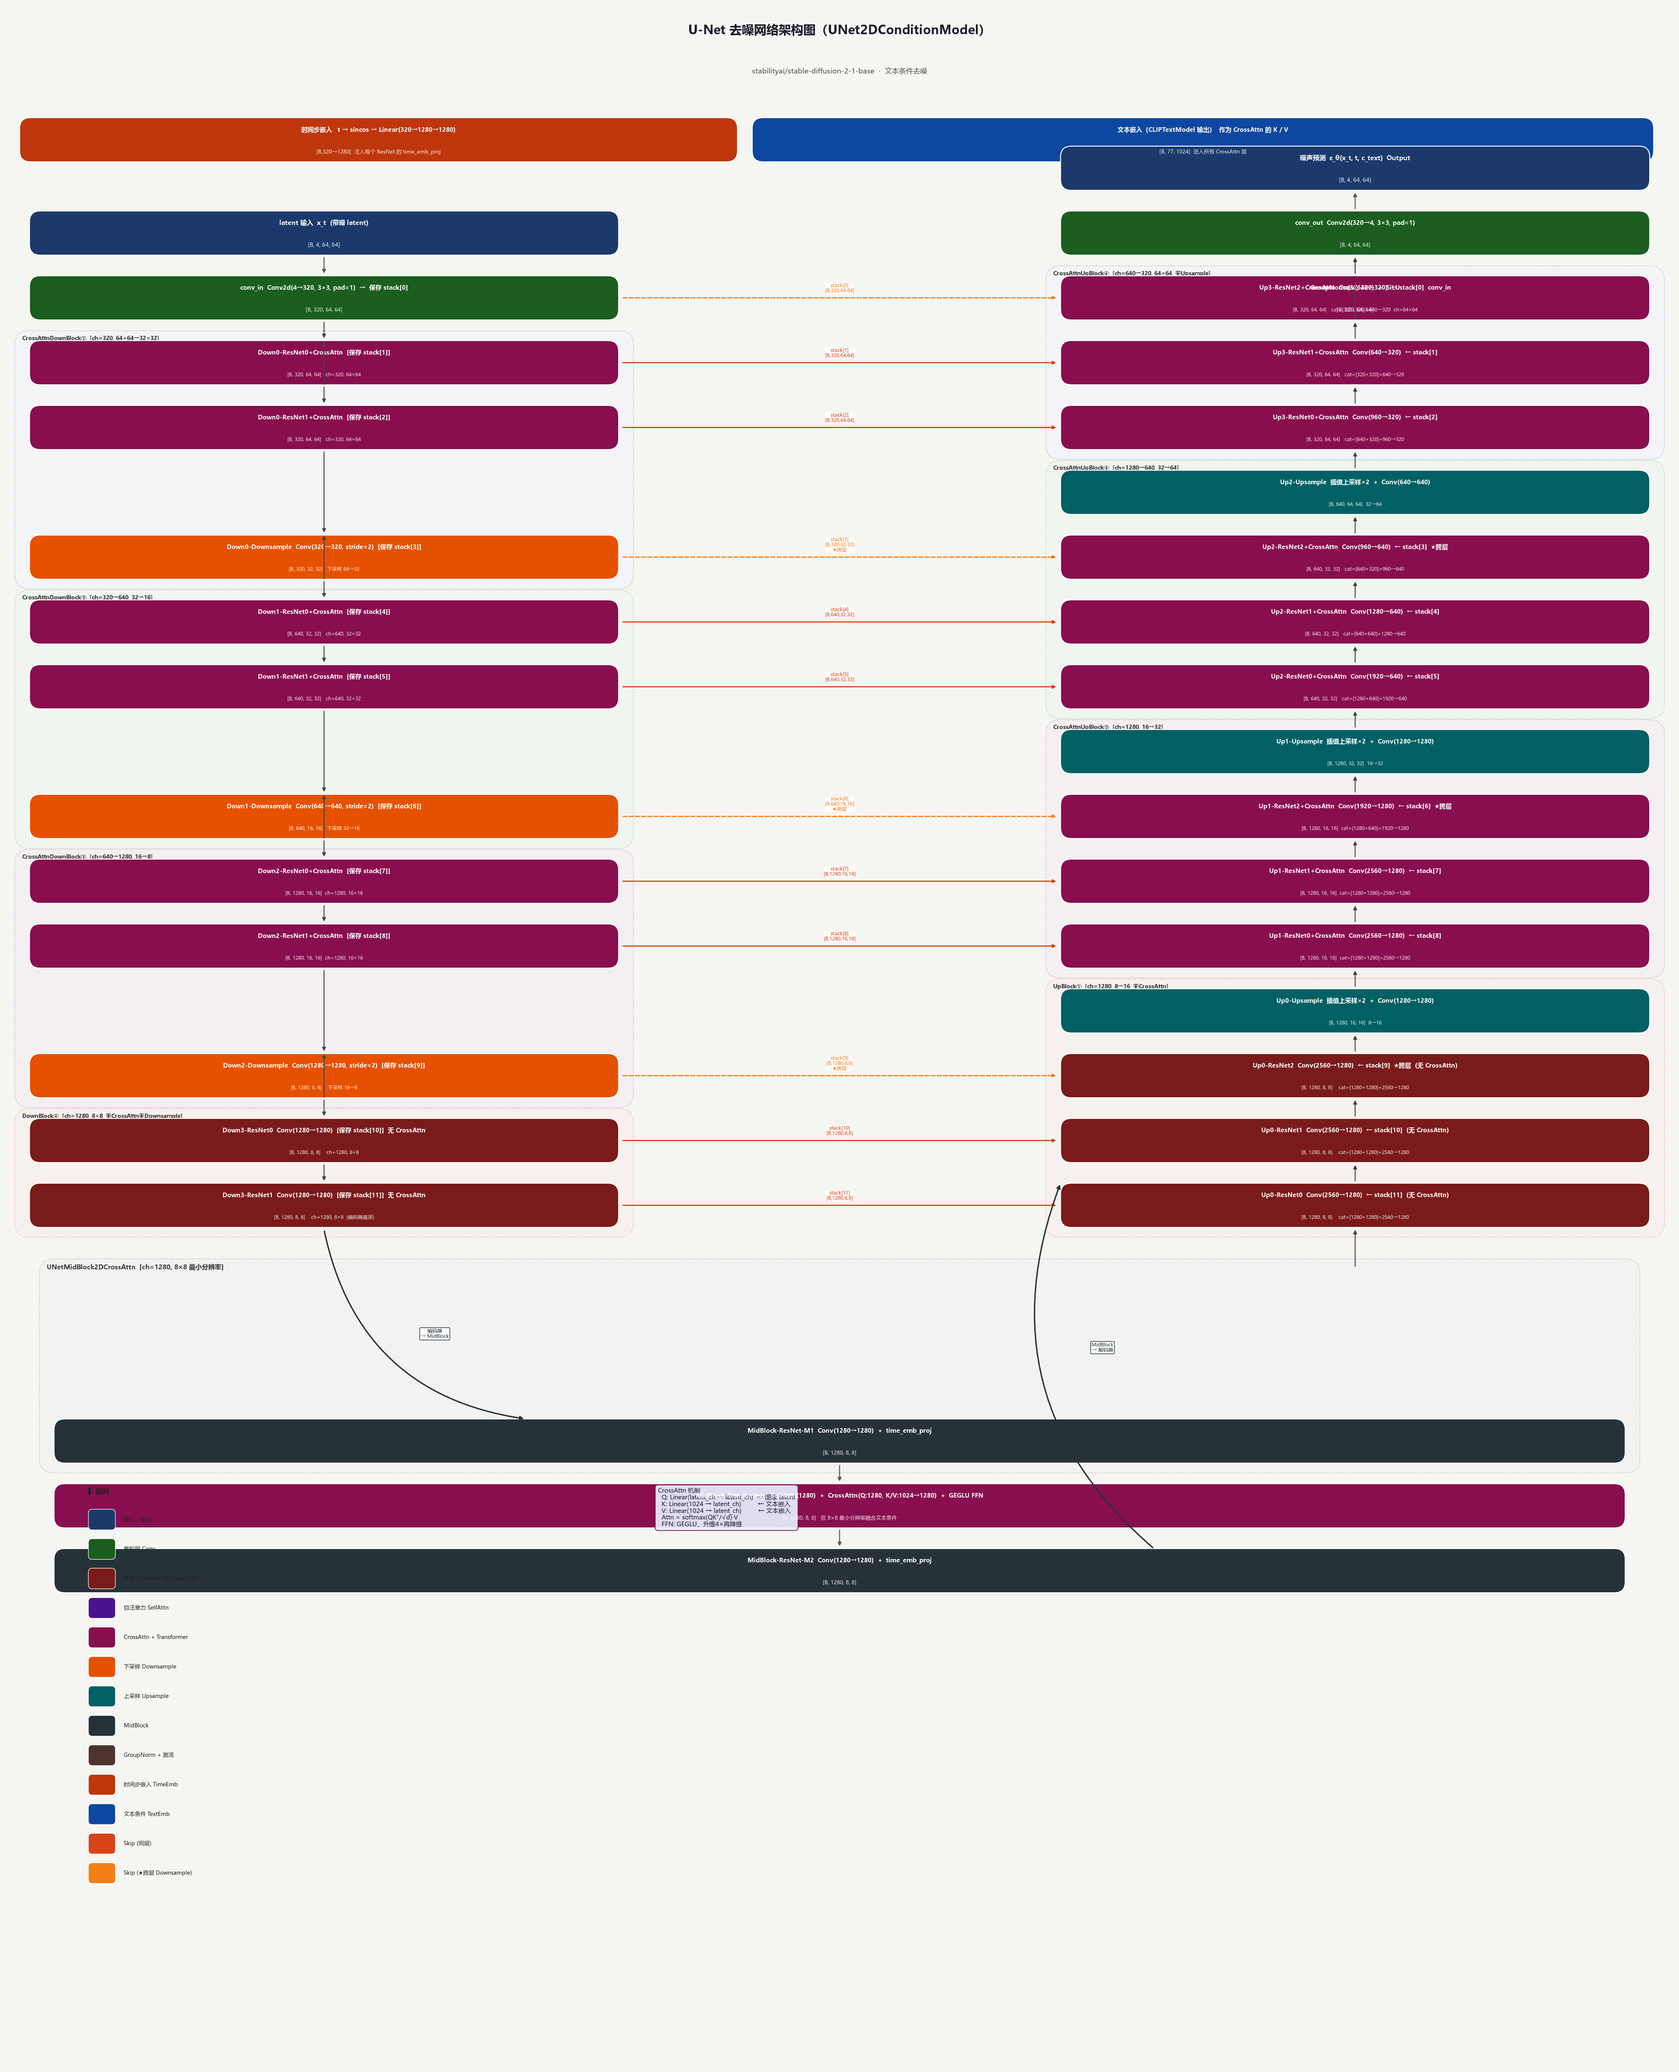
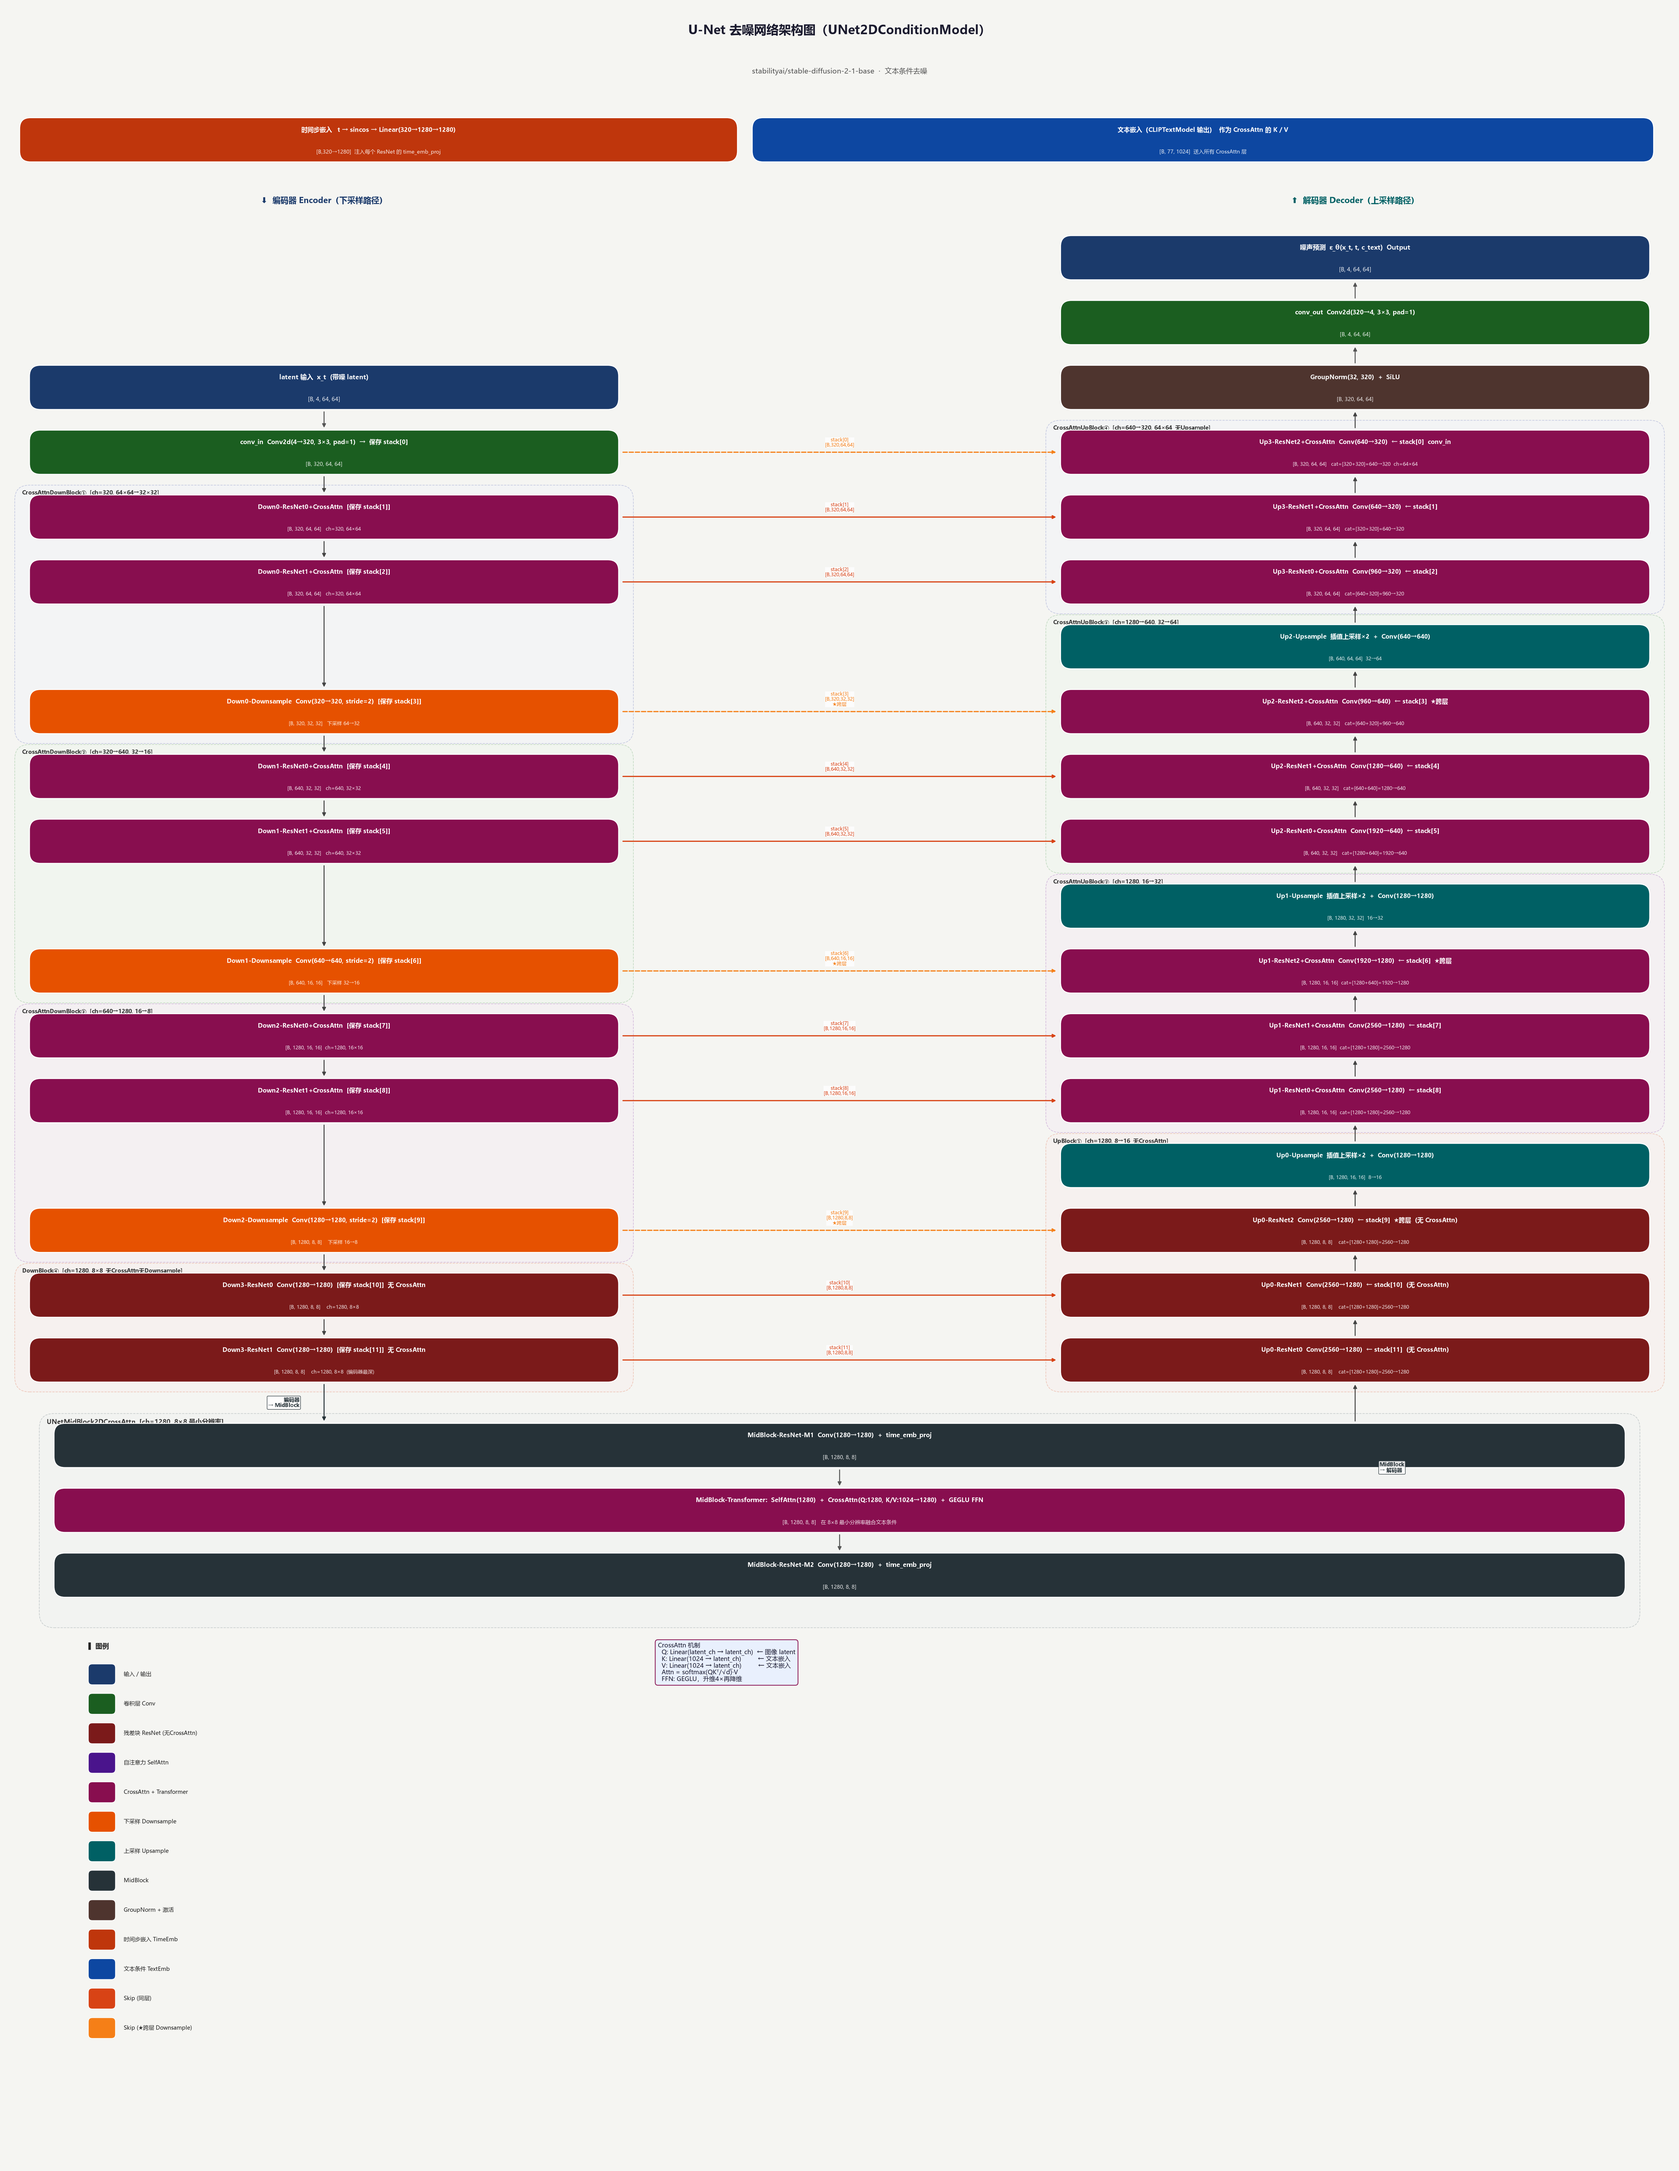
dd

diff --git a/draw_sd_architecture.py b/draw_sd_architecture.py
@@ -384,7 +384,7 @@ def draw_vae():
 # ════════════════════════════════════════════════════════
 
 def draw_unet():
-    FW, FH = 34, 42
+    FW, FH = 34, 44   # 增大 FH，为解码器顶端 3 个输出块留出空间
     fig, ax = make_ax(FW, FH)
 
     SBH = 0.90   # 子块高度
@@ -394,19 +394,16 @@ def draw_unet():
     EL   = 0.5;  EX = EL + BW/2
     DL   = FW - BW - 0.5; DX = DL + BW/2
 
-    # ── 从顶部向下计算布局 ─────────────────────────────────
-    # 标题: FH-0.6, FH-1.4
-    # 时间步/文本嵌入条: emb_y
-    # 列标题: emb_y - 0.8
-    # 编码器 Input: top_area_y
-    # conv_in (row15 = pos14): top_area_y - step
-    # row14..row0: 依次向下
-    # MidBlock: 最底部
-
-    emb_y = FH - 3.2     # 时间步嵌入 bottom-y（从顶往下）
-    COL_HDR_Y = emb_y - 1.0
-    INP_Y  = COL_HDR_Y - 0.9   # Input block bottom-y
-    TOP_Y  = INP_Y - step       # conv_in (row15, pos14) bottom-y
+    # ── 顶部布局计算 ──────────────────────────────────────────
+    # 解码器顶端需要 3 个额外块（GN+SiLU、conv_out、Output），位于主行区域上方
+    # 从 emb_y 向下预留足够空间：3*step + SBH（块高） + 1.5（列标题+间距）
+    emb_y   = FH - 3.2            # 嵌入条底边 y（从顶往下），= 40.8
+    TOP_Y   = emb_y - (3*step + SBH + 1.5)  # conv_in(pos=14)行底边 y，= 34.44
+    INP_Y   = TOP_Y + step        # 编码器 Input 块底边 y（TOP_Y 上方 1 step）
+    GN_Y    = INP_Y               # 解码器 GN+SiLU 与 Input 同高（不同列，无重叠）
+    COUT_Y  = GN_Y  + step        # 解码器 conv_out 底边 y
+    OUT_Y   = COUT_Y + step       # 解码器 Output 底边 y
+    COL_HDR_Y = OUT_Y + SBH + 0.8  # 列标题 y，位于 Output 块上方
 
     # pos → bottom-y（从 pos=14 最高到 pos=0 最低）
     def ry(pos):
@@ -456,10 +453,8 @@ def draw_unet():
     av(ax, EX, INP_Y-0.02, TOP_Y+SBH+0.02)   # Input → conv_in（向下）
 
     # ── 顶部：解码器输出块（GN+SiLU, conv_out, Output）────────
-    GN_Y   = TOP_Y                # GroupNorm+SiLU 与 conv_in 同高（顶行）
-    COUT_Y = INP_Y                # conv_out 与 Input 同高
-    OUT_Y  = INP_Y + step         # Output 在 Input 上方
-
+    # GN_Y/COUT_Y/OUT_Y 已在布局区统一计算，此处直接使用
+    # GN_Y = INP_Y（与编码器 Input 同高，不同列，不重叠）
     blk(ax, DL, GN_Y, BW, SBH,
         ["GroupNorm(32, 320)  +  SiLU",
          "[B, 320, 64, 64]"],
@@ -472,8 +467,8 @@ def draw_unet():
         ["噪声预测  ε_θ(x_t, t, c_text)  Output",
          "[B, 4, 64, 64]"],
         base=C["io"], fs=9.5)
-    # 解码器顶部箭头（向上）
-    av(ax, DX, GN_Y+SBH+0.02, COUT_Y-0.02)   # GN → conv_out（向上）
+    # 解码器顶部箭头（向上，连接相邻块）
+    av(ax, DX, GN_Y+SBH+0.02, COUT_Y-0.02)   # GN+SiLU → conv_out（向上）
     av(ax, DX, COUT_Y+SBH+0.02, OUT_Y-0.02)  # conv_out → Output（向上）
 
     # ── 行定义 ─────────────────────────────────────────────
@@ -654,18 +649,16 @@ def draw_unet():
                dashed=(skip_col == C["skx"]))
 
     # ── 垂直连线（编码器，自上而下）─────────────────────────
-    # conv_in (TOP_Y) → row15(pos14) → row14(pos13) → ... → row1(pos0) → MidBlock
-    prev_e = TOP_Y  # conv_in bottom-y
+    # conv_in (TOP_Y) → pos13 → pos12 → ... → pos0 → MidBlock
+    # 无编码器块的行（Upsample 行，pos=14/11/7/3）直接跳过：
+    # 下一个有块的行会自动画出跨越多行的长箭头
+    prev_e = TOP_Y  # conv_in 底边 y（起始点）
     for pos in [14, 13, 12, 11, 10, 9, 8, 7, 6, 5, 4, 3, 2, 1, 0]:
         if pos in enc_ys:
+            # 从上一块底边向下到当前块顶边（箭头始终在块外部间隙中）
             av(ax, EX, prev_e-0.02, enc_ys[pos]+SBH+0.02, col="#444")
-            prev_e = enc_ys[pos]
-        else:
-            # Upsample 行：编码器画一条连接线（无块）
-            next_enc = [enc_ys[p] for p in [pos-1] if p in enc_ys]
-            if next_enc:
-                av(ax, EX, prev_e-0.02, next_enc[0]+SBH+0.02, col="#444")
-                prev_e = next_enc[0]
+            prev_e = enc_ys[pos]   # 更新为当前块底边，供下次迭代使用
+        # else: Upsample 行无编码器块，跳过，prev_e 保持不变
 
     # ── 垂直连线（解码器，自下而上）────────────────────────────
     # MidBlock → row1(pos0) → ... → row15(pos14) → GN+SiLU(TOP_Y)
@@ -675,9 +668,8 @@ def draw_unet():
             av(ax, DX, prev_d+0.02, dec_ys[pos]-0.02, col="#444")
             prev_d = dec_ys[pos]+SBH
 
-    # GN+SiLU (TOP_Y) 往上的解码器连线
-    av(ax, DX, prev_d+0.02, TOP_Y-0.02, col="#444")
-    av(ax, DX, TOP_Y+SBH+0.02, INP_Y-0.02, col="#444")
+    # 解码器 pos=14 → GN+SiLU（向上，GN_Y = INP_Y = TOP_Y+step > TOP_Y+SBH）
+    av(ax, DX, prev_d+0.02, GN_Y-0.02, col="#444")
 
     # ── MidBlock ───────────────────────────────────────────
     MX = (EX + DX)/2  # MidBlock 中心 x
@@ -692,30 +684,37 @@ def draw_unet():
     ]
     MW2 = FW - 2.0; ML2 = 1.0
     mid_ys_list = []
-    cy = MID_BOT_Y + (MID_H - len(mid_specs)*step)/2
+    # 修正：从分组框顶部块位置开始，向下排列，保证所有块都在分组框内
+    # MID_BOT_Y 是分组框底边；顶部块底边 = MID_BOT_Y + MID_H - SBH
+    cy = MID_BOT_Y + MID_H - SBH
     for i, (t1, t2, col) in enumerate(mid_specs):
         blk(ax, ML2, cy, MW2, SBH, [t1, t2], base=col, fs=9.0)
         mid_ys_list.append(cy)
-        if i > 0: av(ax, FW/2, mid_ys_list[-2]-0.02,
-                     mid_ys_list[-1]+SBH+0.02)
-        cy -= step
+        if i > 0: av(ax, FW/2, mid_ys_list[-2]-0.02,   # 向下箭头
+                         mid_ys_list[-1]+SBH+0.02)
+        cy -= step  # 向下（y 减小）排列下一个子块
 
     grp(ax, ML2-0.3, MID_BOT_Y-0.2,
         MW2+0.6, MID_H+0.4,
         "UNetMidBlock2DCrossAttn  [ch=1280, 8×8 最小分辨率]",
         fc="#ECEFF1", ec="#455A64", fs=9.5)
 
-    # 编码器末端 → MidBlock 入口
-    ac(ax, EX, enc_ys.get(0, ry(0))+(-0.05),
-       ML2 + MW2*0.3, mid_ys_list[0]+SBH,
-       col=C["mid"], lw=2.0, rad=0.35,
-       lbl="编码器\n→ MidBlock")
+    # 编码器末端 → MidBlock 入口（沿编码器列 EX 直线向下，避免曲线穿越色块）
+    av(ax, EX, enc_ys.get(0, ry(0))-0.02, mid_ys_list[0]+SBH+0.02, col=C["mid"])
+    # 添加文字标注替代曲线箭头上的标签
+    ax.text(EX - 0.5, (enc_ys.get(0, ry(0)) + mid_ys_list[0]+SBH) / 2,
+            "编码器\n→ MidBlock", ha="right", va="center", fontsize=7.5,
+            color=C["mid"], fontweight="bold",
+            bbox=dict(fc="white", ec=C["mid"], lw=0.8, alpha=0.85,
+                      boxstyle="round,pad=0.2"))
 
-    # MidBlock 出口 → 解码器起点
-    ac(ax, ML2+MW2*0.7, mid_ys_list[-1]+SBH,
-       DL, dec_ys.get(0, ry(0))+SBH,
-       col=C["mid"], lw=2.0, rad=-0.35,
-       lbl="MidBlock\n→ 解码器")
+    # MidBlock 出口 → 解码器：由解码器垂直连线循环（prev_d = MID_BOT_Y+MID_H）统一处理
+    # 添加文字标注于 MidBlock 右侧
+    ax.text(DX + 0.5, (mid_ys_list[-1] + dec_ys.get(0, ry(0))+SBH) / 2,
+            "MidBlock\n→ 解码器", ha="left", va="center", fontsize=7.5,
+            color=C["mid"], fontweight="bold",
+            bbox=dict(fc="white", ec=C["mid"], lw=0.8, alpha=0.85,
+                      boxstyle="round,pad=0.2"))
 
     # ── 分组背景 ──────────────────────────────────────────
     # 编码器分组
